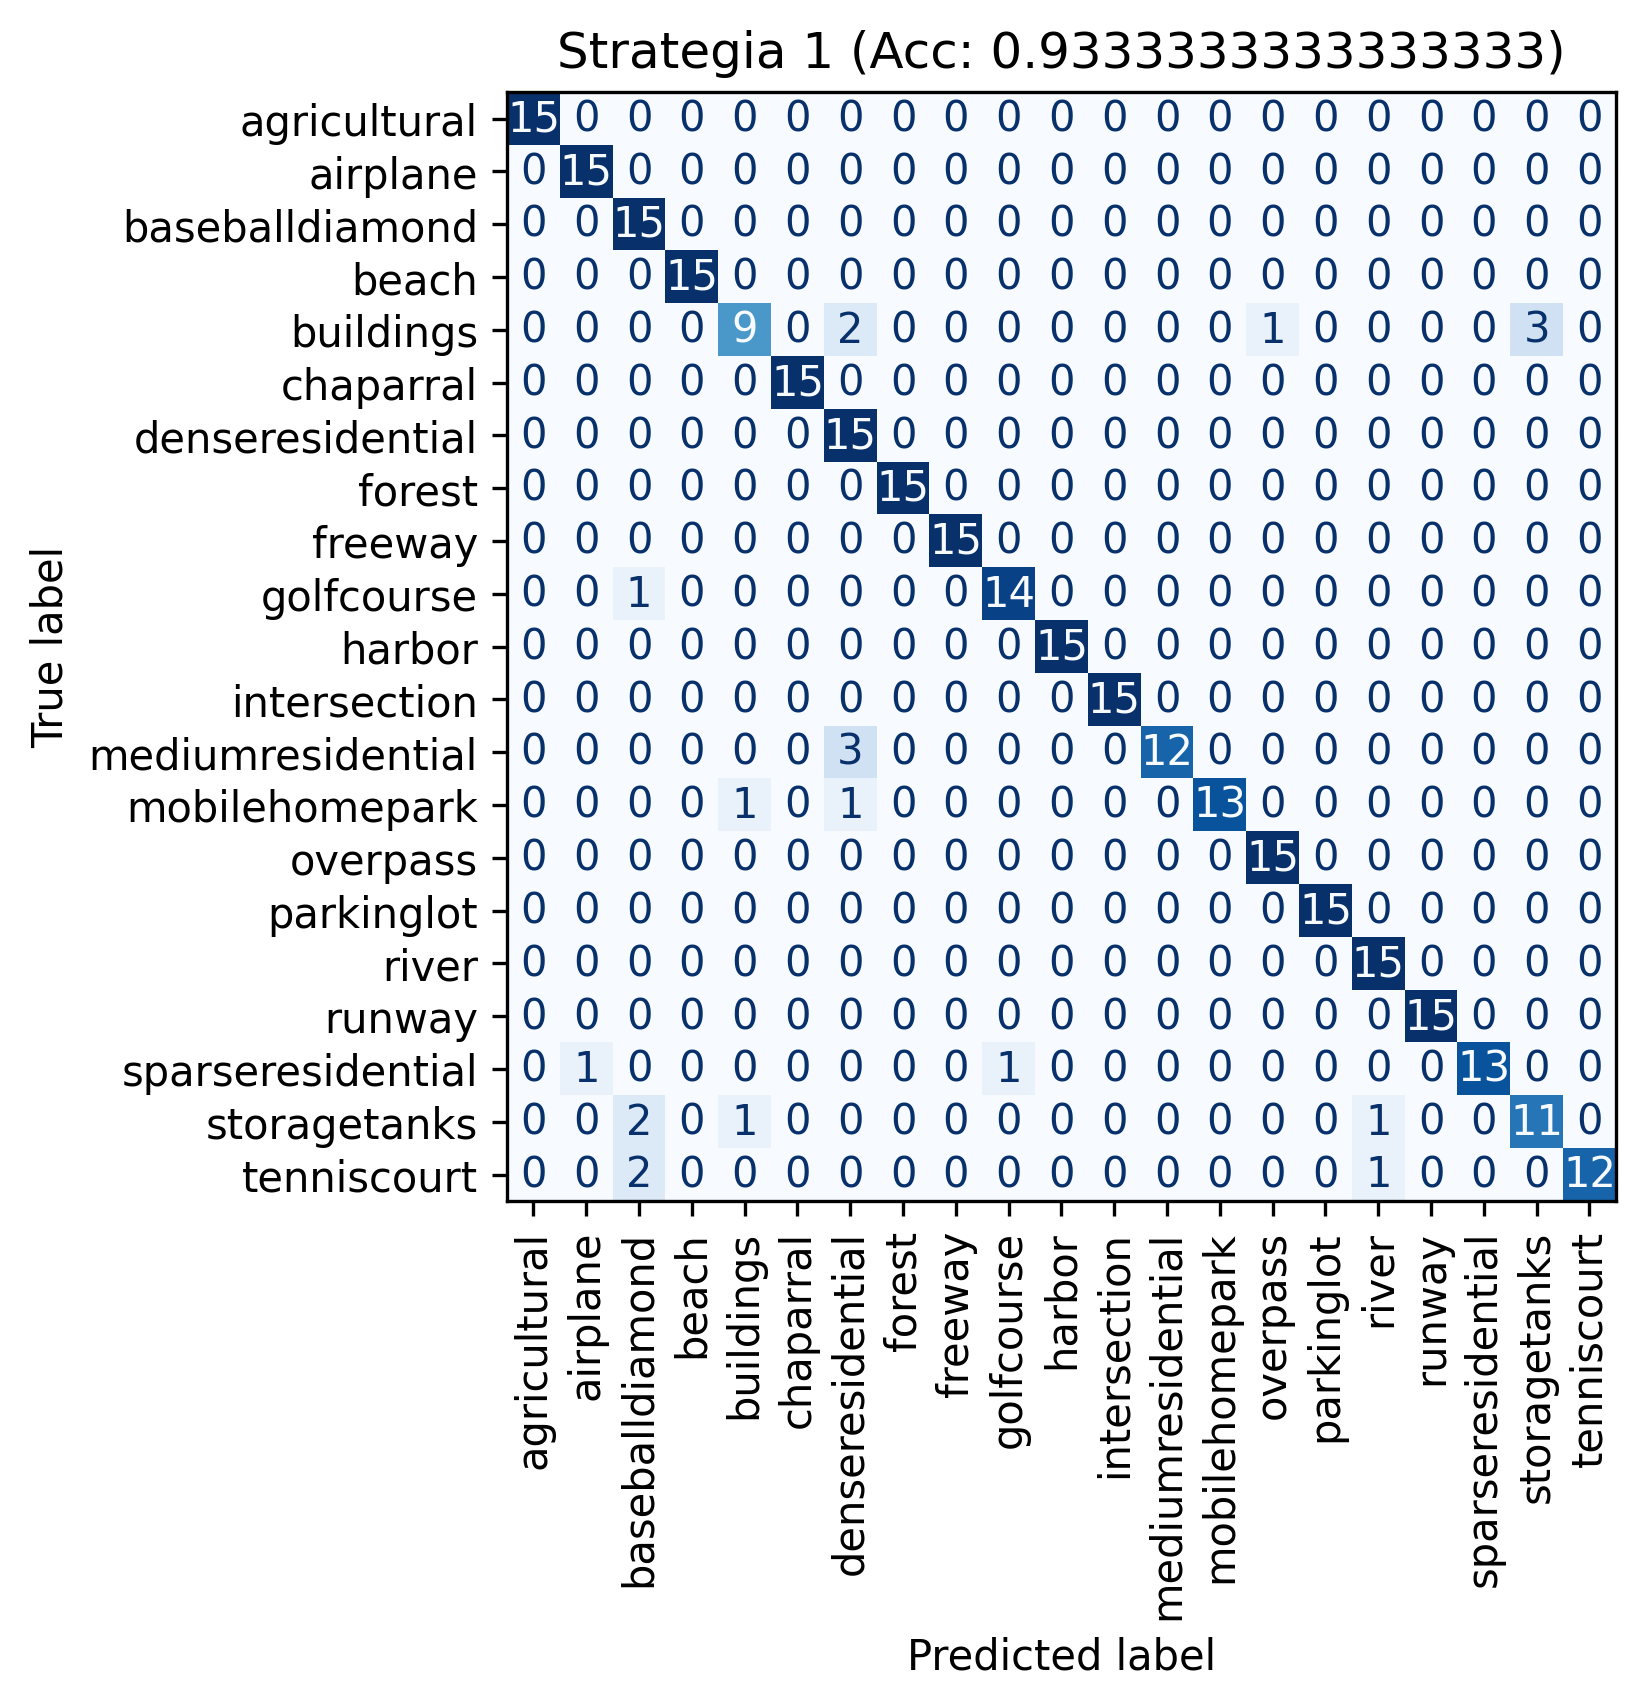
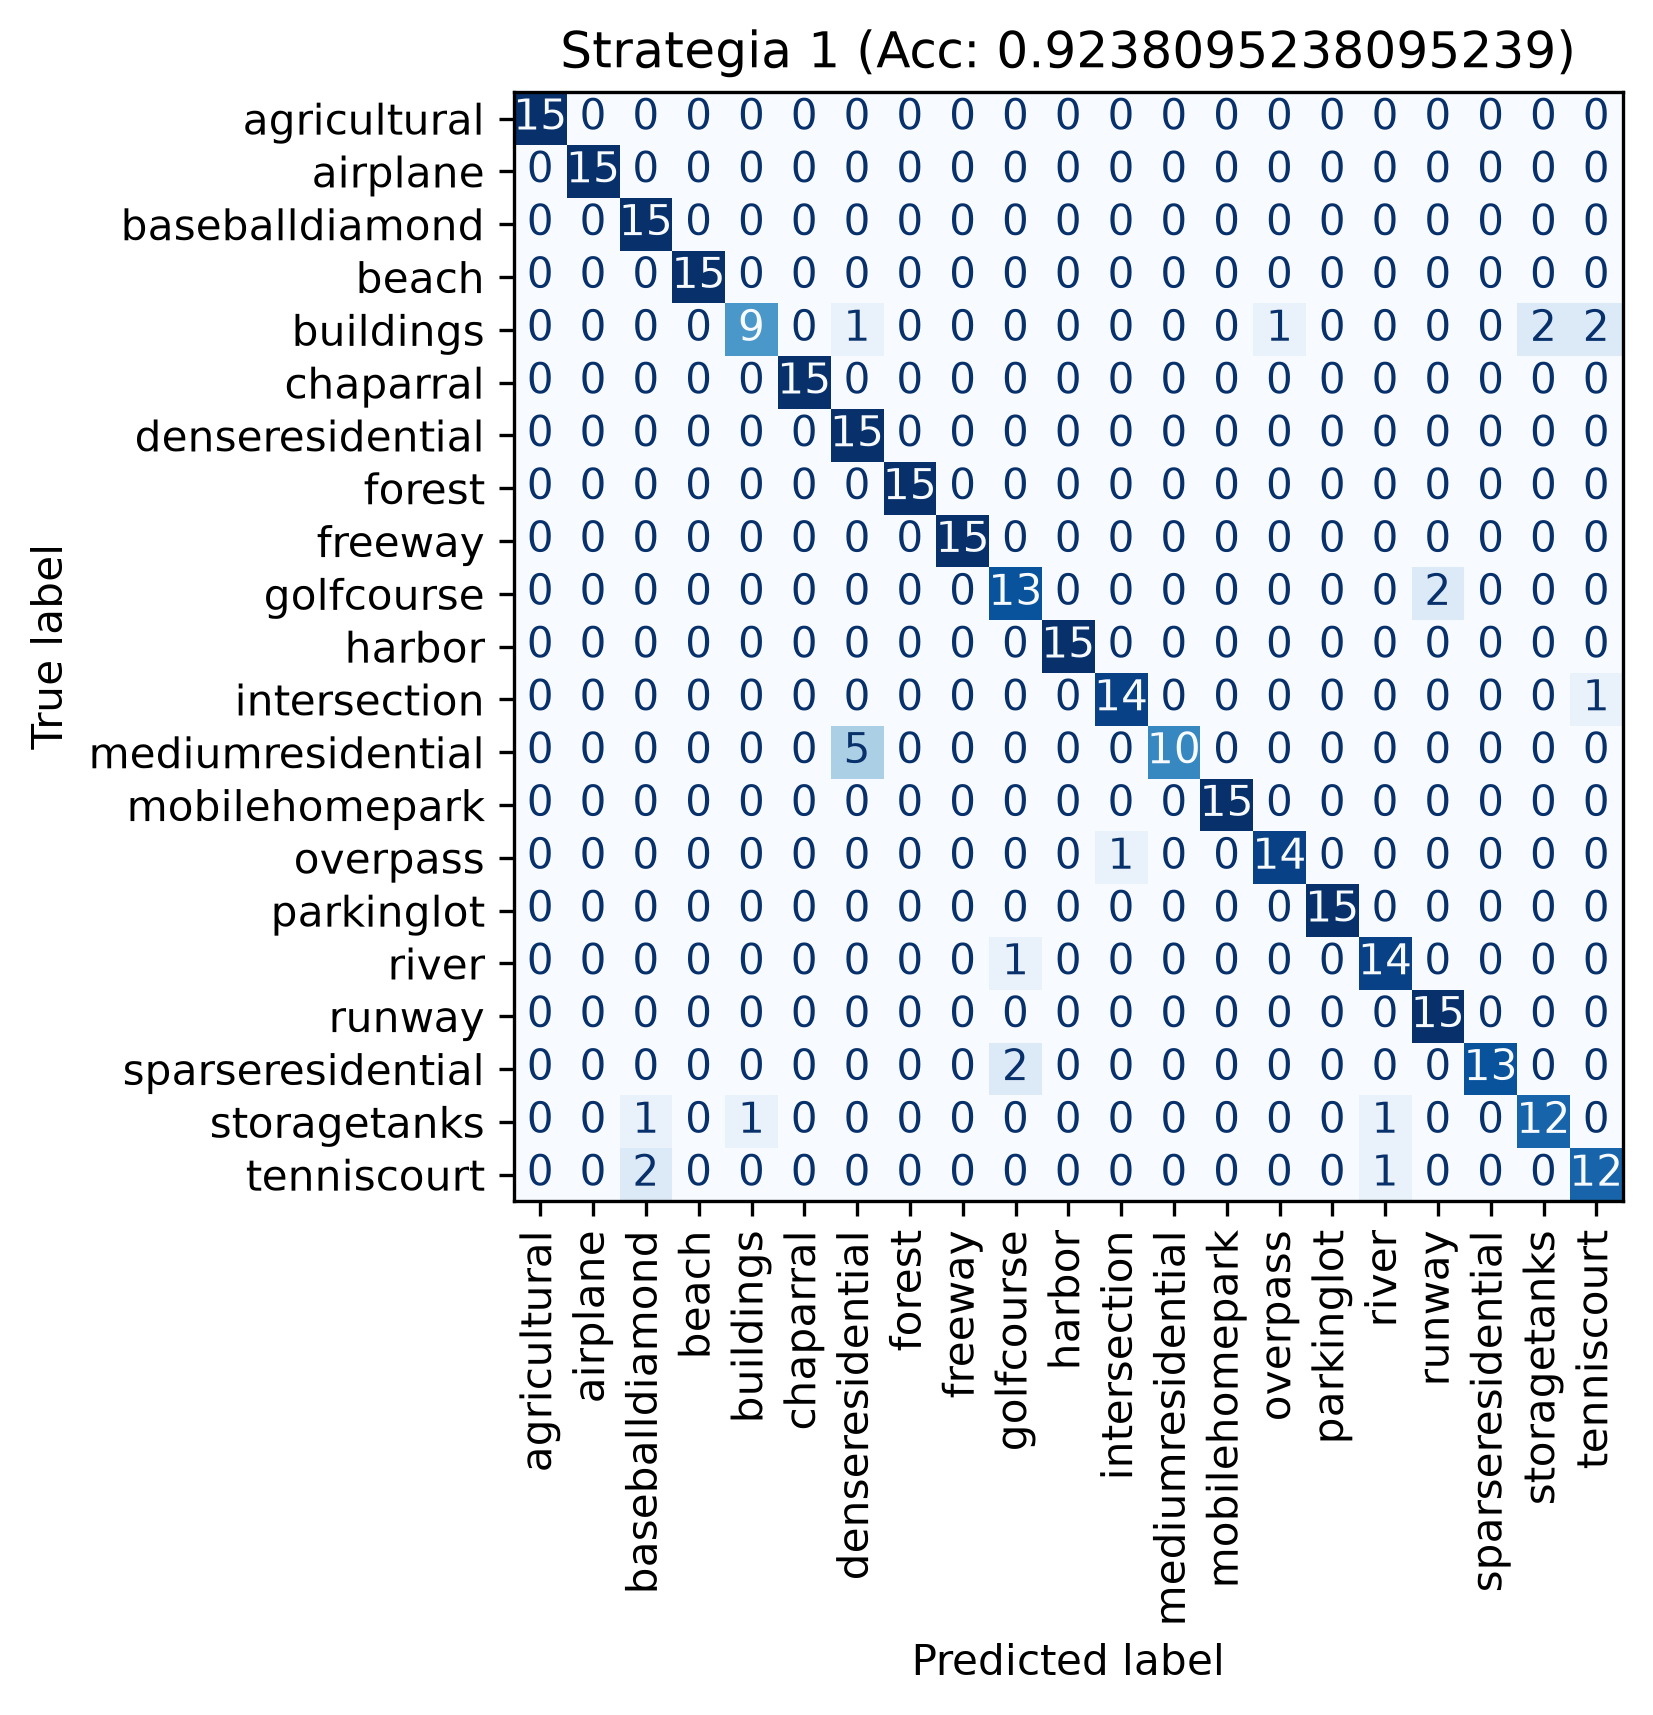
feat: add inference script for model prediction and visualization

Changed region(s): [[0.062, 0.0, 0.9921, 0.993], [0.0, 0.3103, 0.062, 0.4344]]

diff --git a/Progetto_Esame/Assignment_3/Inferenza_Manuale.py b/Progetto_Esame/Assignment_3/Inferenza_Manuale.py
@@ -1,0 +1,34 @@
+import cv2 as cv
+import numpy as np
+import keras
+import matplotlib.pyplot as plt
+from pathlib import Path
+
+# 1. Carica il modello della Strategia 1 e l'immagine preprocessata (256x256)
+model = keras.models.load_model("Progetto_Esame/Assignment_3/Modelli_e_CF/partial_finetuned_fase2.keras")
+IMAGE_PATH = r'Progetto_Esame/Assignment_3/DATASET/AIDRidotto/BaseballField/baseballfield_43.jpg'
+
+img = cv.imread(IMAGE_PATH)
+img_resized = cv.resize(img, (256, 256))
+img_reshaped = img_resized.reshape(1, 256, 256, 3)  # Aggiunge una dimensione batch (1, 256, 256, 3)
+
+y_pred_probs = model.predict(img_reshaped)[0]  # Ottiene le probabilità predette per la prima (e unica) immagine
+y_pred_class = np.argmax(y_pred_probs, axis=1)
+
+class_names = [f.name for f in Path("Progetto_Esame/Assignment_3/DATASET/UCMerced_LandUse/Images").glob('*') if f.is_dir()]
+
+fig, (ax1, ax2) = plt.subplots(1, 2, figsize=(12, 5))
+#probs = y_pred_probs[0]
+top5 = np.argsort(y_pred_probs)[-5:] #arg restituisce gli indici degli elementi ordinati in ordine crescente
+class_names = np.array(class_names)
+
+ax1.imshow(img_resized); ax1.axis('off')
+ax1.set_title(f'Immagine\n Pred: {class_names[top5[0]]} ({y_pred_probs[top5[0]]:.2f})')
+
+ax2.barh(class_names[top5], y_pred_probs[top5])
+ax2.set(xlabel='Probabilità', title='Analisi Statistica del Classificatore (Top 5)')
+
+fig.tight_layout()
+plt.show()
+plt.close()
+

diff --git a/Progetto_Esame/Assignment_3/Strategia2.py b/Progetto_Esame/Assignment_3/Strategia2.py
@@ -2,7 +2,7 @@ import keras
 import CNN_e_Utility as utils
 
 BATCH_SIZE   = 32
-EPOCHS       = 100
+EPOCHS       = 150
 LR           = 1e-3
 PATH = "/home/enrib/progetto/dataset/DATASET/UCMerced_LandUse/Images"
 
@@ -44,9 +44,7 @@ callbacks = [
         verbose=1),
 
     keras.callbacks.TensorBoard(
-        log_dir="Progetto_Esame/Assignment_3/logs/strategia2", 
-        histogram_freq=0
-        )
+        log_dir="Progetto_Esame/Assignment_3/logs/strategia2")
 ]
 
 history = model.fit(

diff --git a/Progetto_Esame/Assignment_3/CNN_e_Utility.py b/Progetto_Esame/Assignment_3/CNN_e_Utility.py
@@ -17,6 +17,7 @@ def load_dataset(cartella):
             im = cv.imread(str(f))
             if im is not None:
                 im = cv.resize(im, (256,256))
+                #TODO spiegare bene perchè ridimensiono fisso a 256x256:
                 X.append(im)
                 y.append(classe)
                 print(f"Caricata immagine {f} con classe {classe}")
@@ -130,7 +131,8 @@ def build_model(input_shape, num_classes):
     Input      S0       S1     S2     S3     S4    MaxPool    Flatten
     256x256    32x32   32x32  16x16   8x8    4x4      2x2         2048
 
-    Parametri totali: 38.834.824 TODO
+    Parametri totali: 31,043,701 (con 21 classi finali)
+    
     """
     inputs = Input(shape=input_shape, name="input")
 

diff --git a/Progetto_Esame/Assignment_3/Strategia1_Fase2_Opt2.py b/Progetto_Esame/Assignment_3/Strategia1_Fase2_Opt2.py
@@ -75,8 +75,7 @@ callbacks = [
         verbose=1),
 
     keras.callbacks.TensorBoard(
-        log_dir="Progetto_Esame/Assignment_3/logs/strategia1_fase2_b", 
-        histogram_freq=0),
+        log_dir="Progetto_Esame/Assignment_3/logs/strategia1_fase2_b")
 ]
 
 history = model.fit(

diff --git a/Progetto_Esame/Assignment_3/Valutazione_Modelli.py b/Progetto_Esame/Assignment_3/Valutazione_Modelli.py
@@ -35,7 +35,7 @@ for name, path in models.items():
     del model
 
     #qui salvo l'immagine con accanto il grafico a barre con le top 5 predette    
-    for i, im in enumerate(X_test[:10]):
+    for i, im in enumerate(X_test[:15]): #salvo solo le prime 15 del test set
         fig, (ax1, ax2) = plt.subplots(1, 2, figsize=(12, 5))
         probs= y_pred_prob[i] 
         top5 = np.argsort(y_pred_prob[i])[-5:]